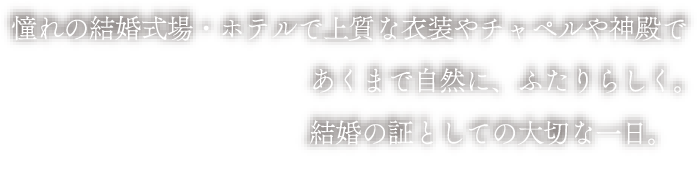
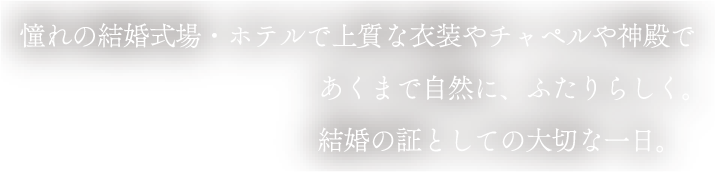
画像差し替え

Changed region(s): [[0.0, 0.0592, 0.9928, 0.9763], [0.8725, 0.7101, 0.9628, 0.858], [0.1504, 0.0296, 0.1805, 0.0592]]

diff --git a/public/saga_photowedding/index.html b/public/saga_photowedding/index.html
@@ -53,7 +53,7 @@
                     <img src="./assets/img/heroimg03.png?1" alt="" class="hero-img">
                 </div>
                 <div class="hero-text2">
-                    <img src="./assets/img/img_text02-w.png?1" alt="" class="hero-img">
+                    <img src="./assets/img/img_text02-w.png?2" alt="" class="hero-img">
                 </div>
             </div>
         </section>
